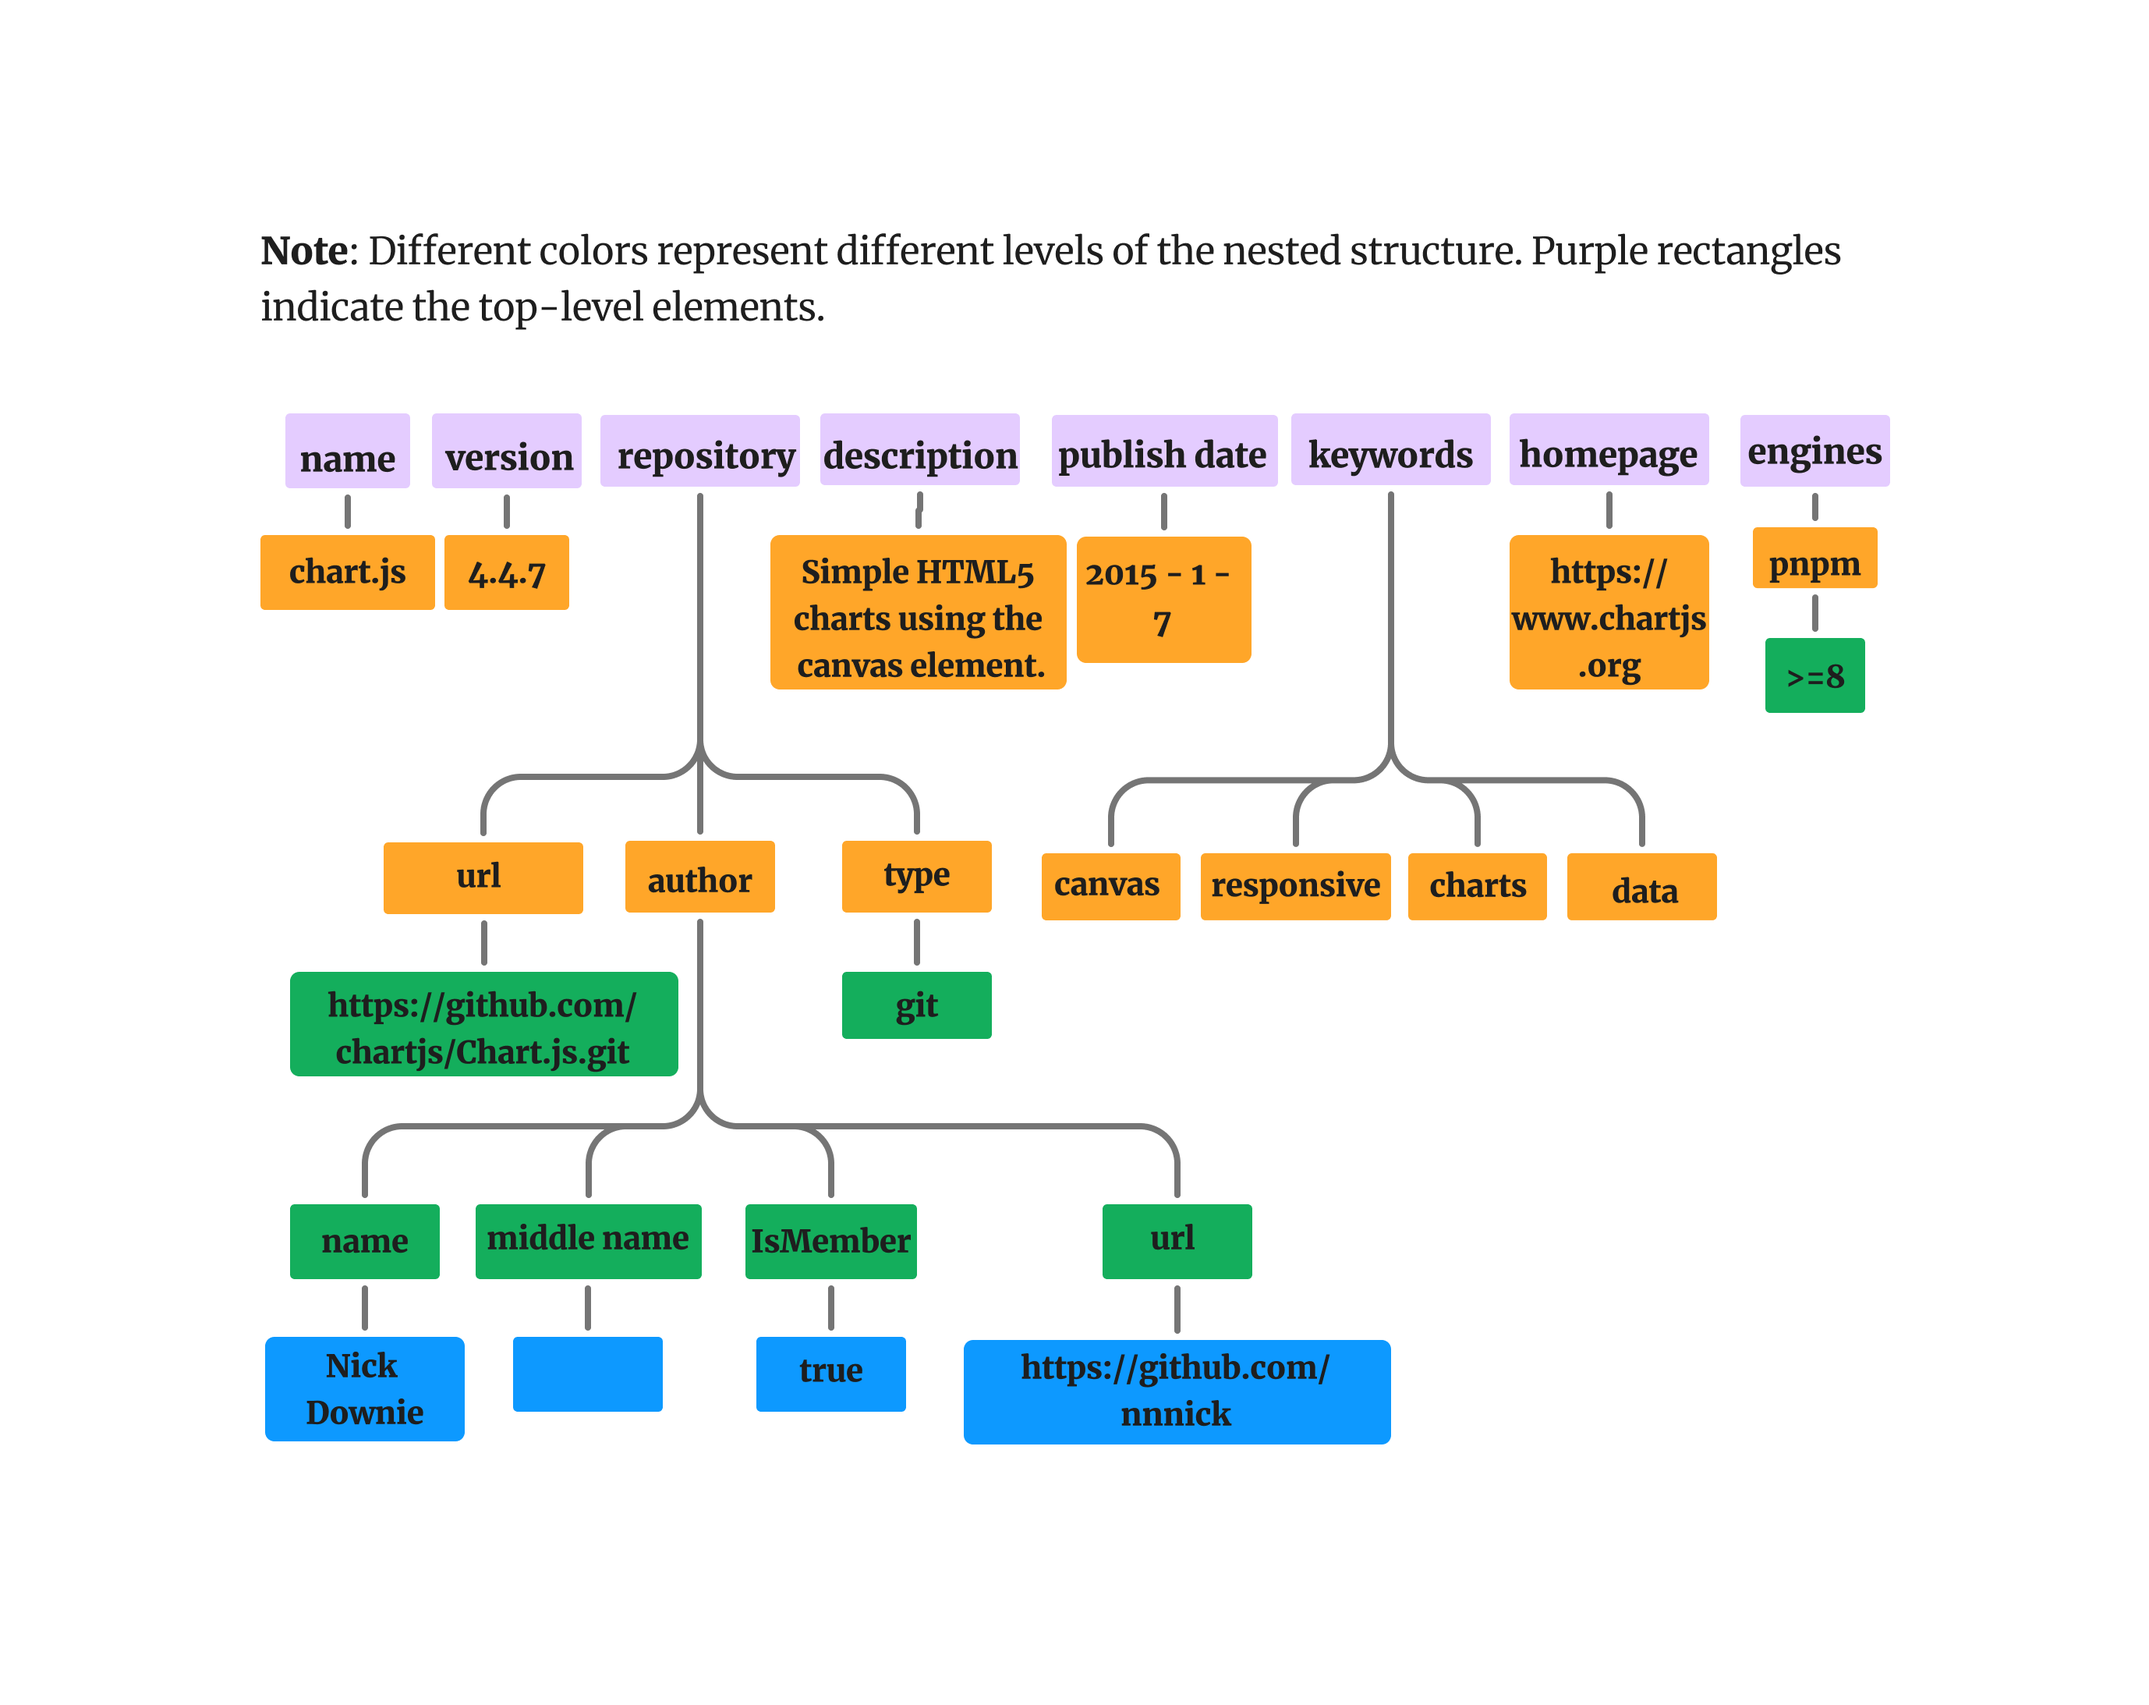
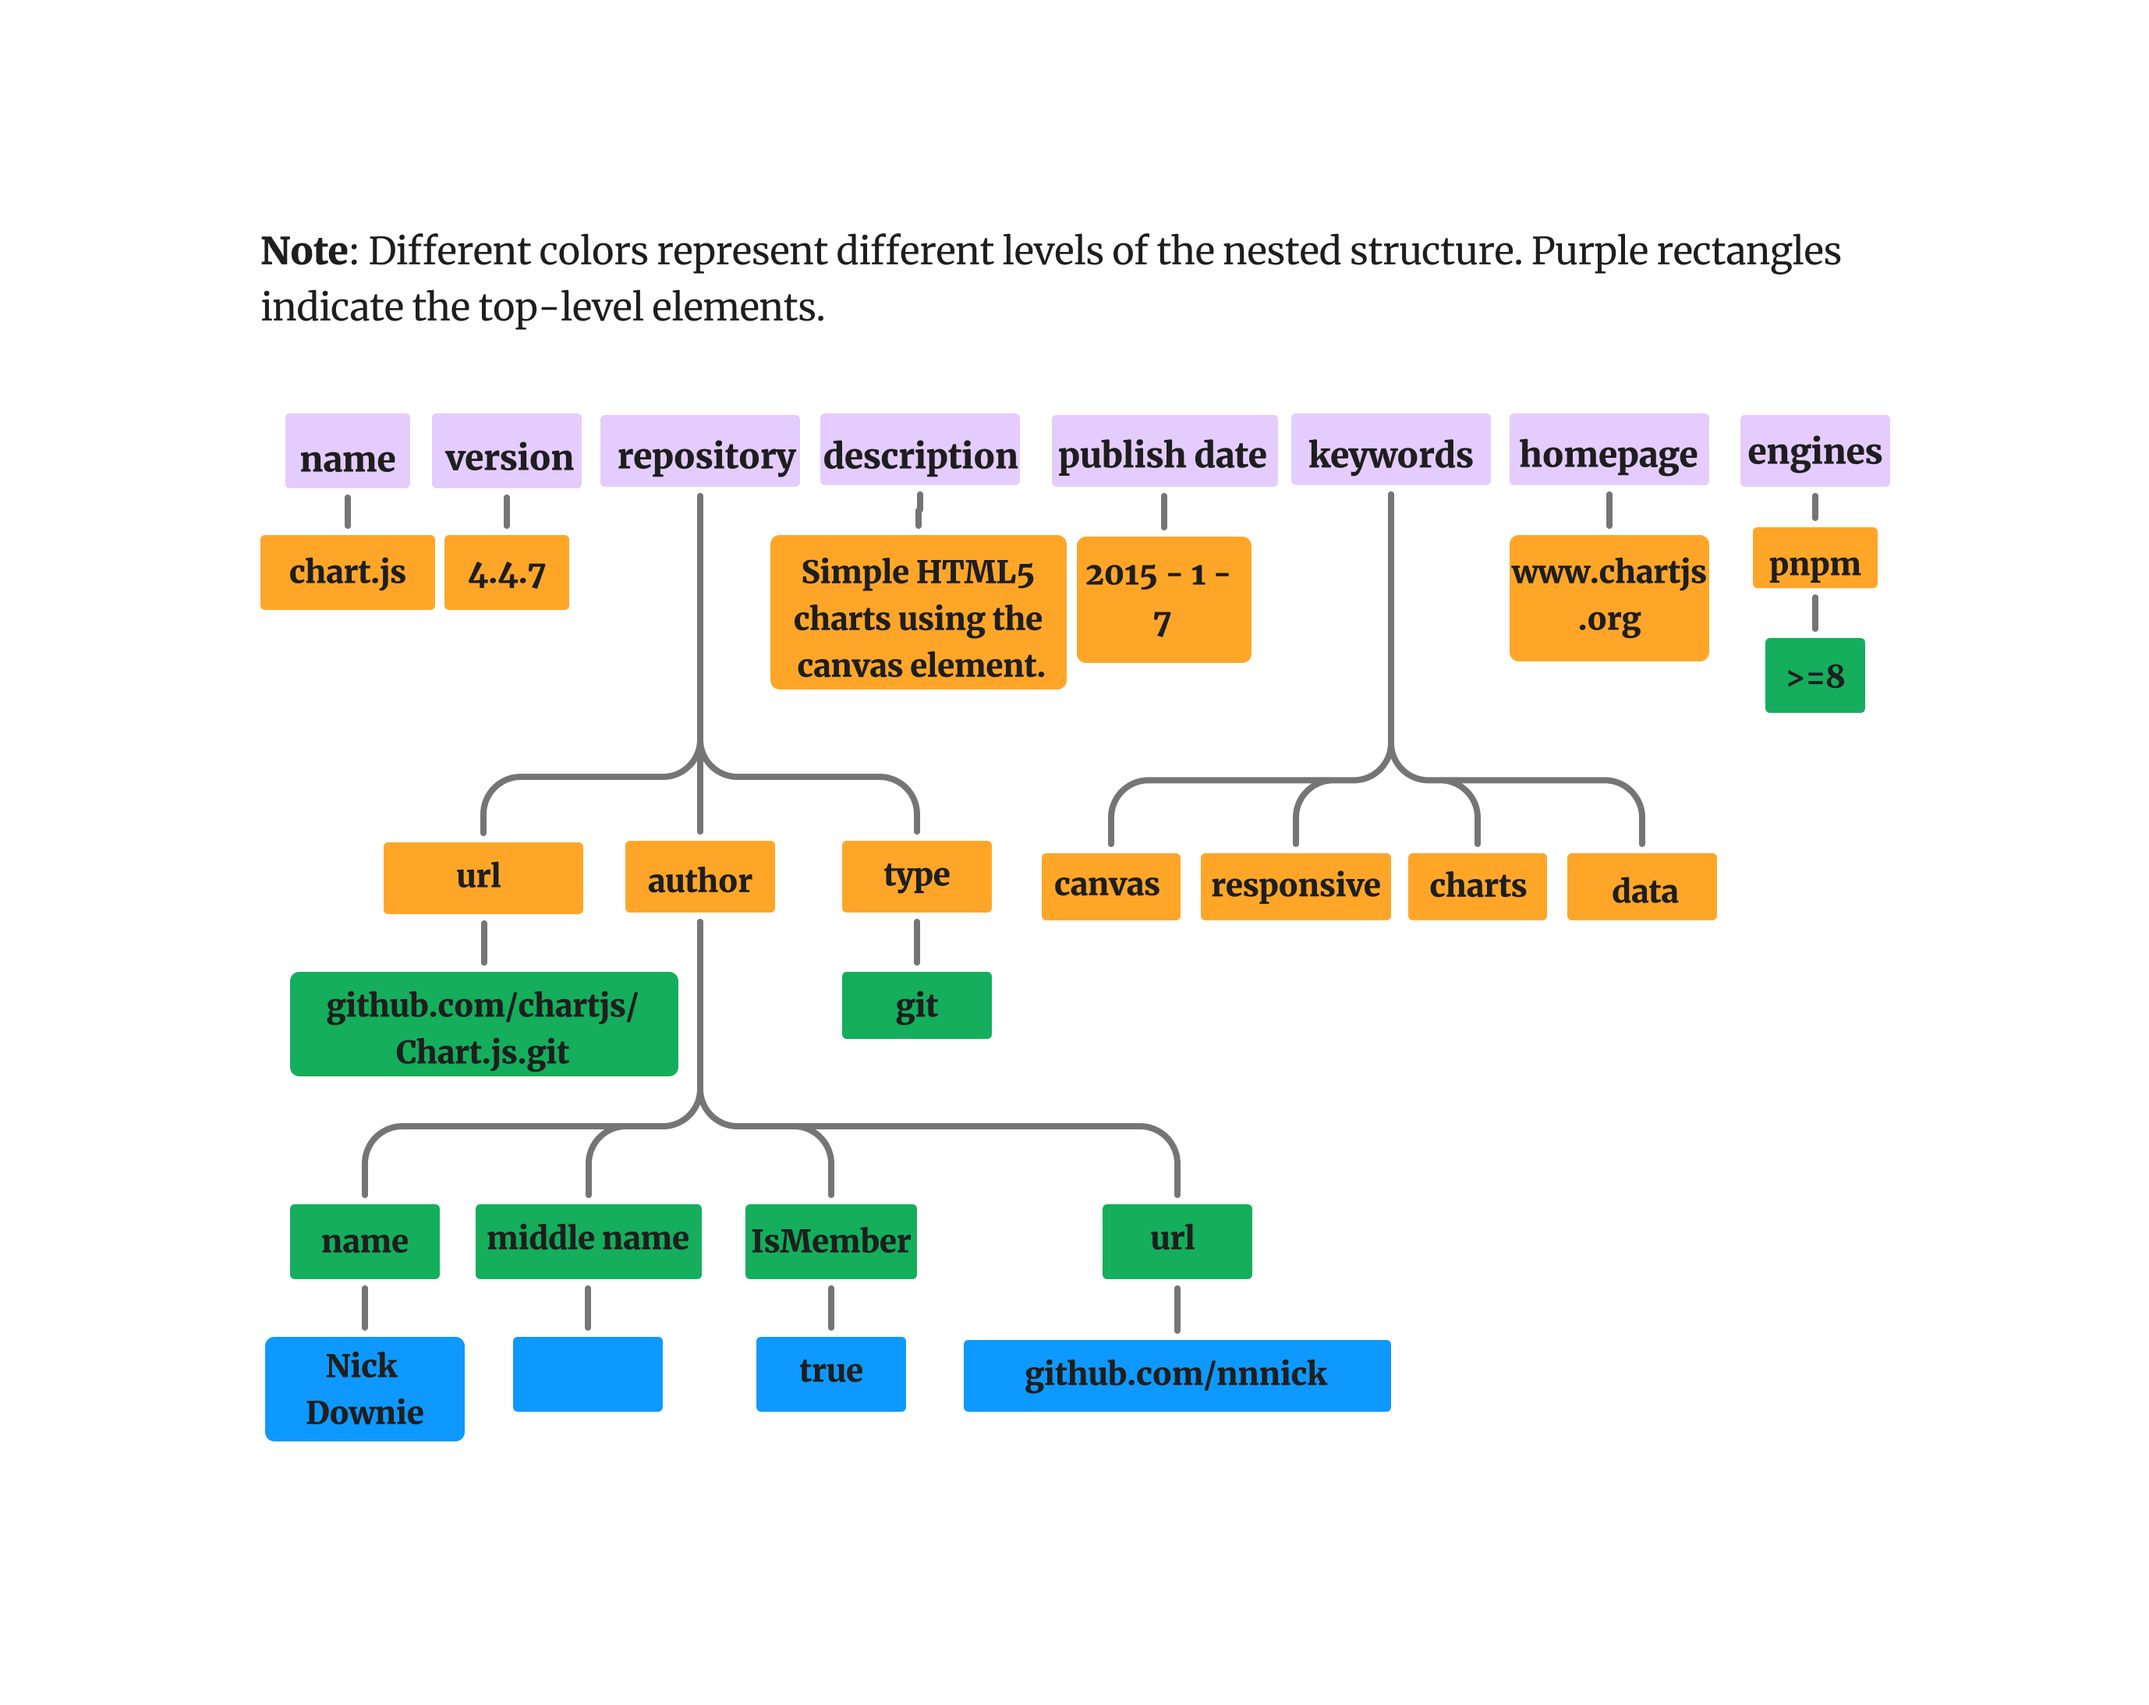
remove urls(http)

Changed region(s): [[0.4369, 0.7777, 0.6553, 0.871], [0.6865, 0.3111, 0.8113, 0.4044], [0.156, 0.5599, 0.312, 0.6221]]

diff --git a/src/public/a-usability-study/assets/startingStrings.tsx b/src/public/a-usability-study/assets/startingStrings.tsx
@@ -1312,10 +1312,10 @@ role = "Secretary"`,
     name: 'd3',
     version: '7.9.0',
     description: 'Data-Driven Documents',
-    homepage: 'https://d3js.org',
+    homepage: 'd3js.org',
     repository: {
       type: 'git',
-      url: 'https://github.com/d3/d3.git',
+      url: 'github.com/d3/d3.git',
     },
     keywords: [
       'd3',
@@ -1327,8 +1327,8 @@ role = "Secretary"`,
     ],
     license: 'ISC',
     author: {
-      name: 'Mike Bostock',
-      url: 'https://bost.ocks.org/mike',
+      firstname: 'Mike',
+      lastname: 'Bostock',
     },
     type: 'module',
     files: [
@@ -1404,10 +1404,10 @@ role = "Secretary"`,
   <name>d3</name>
   <version>7.9.0</version>
   <description>Data-Driven Documents</description>
-  <homepage>https://d3js.org</homepage>
+  <homepage>d3js.org</homepage>
   <repository>
     <type>git</type>
-    <url>https://github.com/d3/d3.git</url>
+    <url>github.com/d3/d3.git</url>
   </repository>
   <keywords>d3</keywords>
   <keywords>dom</keywords>
@@ -1417,8 +1417,8 @@ role = "Secretary"`,
   <keywords>canvas</keywords>
   <license>ISC</license>
   <author>
-    <name>Mike Bostock</name>
-    <url>https://bost.ocks.org/mike</url>
+    <firstname>Mike</firstname>
+    <lastname>Bostock</lastname>
   </author>
   <type>module</type>
   <files>dist/d3.js</files>
@@ -1490,7 +1490,7 @@ role = "Secretary"`,
   readingconfigtoml: `name = "d3"
 version = "7.9.0"
 description = "Data-Driven Documents"
-homepage = "https://d3js.org"
+homepage = "d3js.org"
 keywords = ["d3", "dom", "visualization", "svg", "animation", "canvas"]
 license = "ISC"
 type = "module"
@@ -1502,11 +1502,11 @@ unpkg = "dist/d3.min.js"
 
 [repository]
 type = "git"
-url = "https://github.com/d3/d3.git"
+url = "github.com/d3/d3.git"
 
 [author]
-name = "Mike Bostock"
-url = "https://bost.ocks.org/mike"
+firstname = "Mike"
+lastname = "Bostock"
 
 [exports]
 umd = "./dist/d3.min.js"
@@ -1569,10 +1569,10 @@ node = ">=12"`,
   name: d3
   version: 7.9.0
   description: 'Data-Driven Documents'
-  homepage: https://d3js.org
+  homepage: d3js.org
   repository:
     type: git
-    url: https://github.com/d3/d3.git
+    url: github.com/d3/d3.git
   keywords:
     - d3
     - dom
@@ -1582,8 +1582,8 @@ node = ">=12"`,
     - canvas
   license: ISC
   author:
-    name: Mike Bostock
-    url: https://bost.ocks.org/mike
+    firstname: Mike
+    lastname:  Bostock
   type: module
   files:
     - dist/d3.js
@@ -1650,10 +1650,10 @@ node = ">=12"`,
     name: 'd3',
     version: '7.9.0',
     description: 'Data-Driven Documents',
-    homepage: 'https://d3js.org',
+    homepage: 'd3js.org',
     repository: {
       type: 'git',
-      url: 'https://github.com/d3/d3.git',
+      url: 'github.com/d3/d3.git',
     },
     keywords: [
       'd3',
@@ -1665,8 +1665,8 @@ node = ">=12"`,
     ],
     license: 'ISC',
     author: {
-      name: 'Mike Bostock',
-      url: 'https://bost.ocks.org/mike',
+      firstname: 'Mike',
+      lastname: 'Bostock',
     },
     type: 'module',
     files: [
@@ -1741,10 +1741,10 @@ node = ">=12"`,
     name: 'd3',
     version: '7.9.0',
     description: 'Data-Driven Documents',
-    homepage: 'https://d3js.org',
+    homepage: 'd3js.org',
     repository: {
         type: 'git',
-        url: 'https://github.com/d3/d3.git'
+        url: 'github.com/d3/d3.git'
     },
     keywords: [
         'd3',
@@ -1756,8 +1756,8 @@ node = ">=12"`,
     ],
     license: 'ISC',
     author: {
-        name: 'Mike Bostock',
-        url: 'https://bost.ocks.org/mike'
+        firstname: 'Mike',
+        lastname: 'Bostock'
     },
     type: 'module',
     files: [
@@ -1832,11 +1832,11 @@ node = ">=12"`,
     name: d3
     version: 7.9.0
     description: Data-Driven Documents
-    homepage: https://d3js.org
+    homepage: d3js.org
     repository:
     {
       type: git
-      url: https://github.com/d3/d3.git
+      url: github.com/d3/d3.git
     }
     keywords:
     [
@@ -1850,8 +1850,8 @@ node = ">=12"`,
     license: ISC
     author:
     {
-      name: Mike Bostock
-      url: https://bost.ocks.org/mike
+      firstname: Mike
+      lastname:  Bostock
     }
     type: module
     files:
@@ -1933,12 +1933,12 @@ node = ">=12"`,
     author: 'Dominik Moritz, Kanit Wongsuphasawat, Arvind Satyanarayan, Jeffrey Heer',
     version: '5.23.0',
     collaborators: [
-      'Kanit Wongsuphasawat (http://kanitw.yellowpigz.com)',
-      'Dominik Moritz (https://www.domoritz.de)',
-      'Arvind Satyanarayan (https://arvindsatya.com)',
-      'Jeffrey Heer (https://jheer.org)',
+      'Kanit Wongsuphasawat',
+      'Dominik Moritz',
+      'Arvind Satyanarayan',
+      'Jeffrey Heer',
     ],
-    homepage: 'https://vega.github.io/vega-lite/',
+    homepage: 'ega.github.io/vega-lite/',
     description: 'Vega-Lite is a concise high-level language for interactive visualization.',
     keywords: [
       'vega',
@@ -1980,11 +1980,11 @@ node = ">=12"`,
     },
     repository: {
       type: 'git',
-      url: 'https://github.com/vega/vega-lite.git',
+      url: 'github.com/vega/vega-lite.git',
     },
     license: 'BSD-3-Clause',
     bugs: {
-      url: 'https://github.com/vega/vega-lite/issues',
+      url: 'github.com/vega/vega-lite/issues',
     },
     devDependencies: {
       ajv: '^8.17.1',
@@ -2040,12 +2040,12 @@ node = ">=12"`,
     author: 'Dominik Moritz, Kanit Wongsuphasawat, Arvind Satyanarayan, Jeffrey Heer',
     version: '5.23.0',
     collaborators: [
-      'Kanit Wongsuphasawat (http://kanitw.yellowpigz.com)',
-      'Dominik Moritz (https://www.domoritz.de)',
-      'Arvind Satyanarayan (https://arvindsatya.com)',
-      'Jeffrey Heer (https://jheer.org)',
+      'Kanit Wongsuphasawat',
+      'Dominik Moritz',
+      'Arvind Satyanarayan',
+      'Jeffrey Heer',
     ],
-    homepage: 'https://vega.github.io/vega-lite/',
+    homepage: 'vega.github.io/vega-lite/',
     description: 'Vega-Lite is a concise high-level language for interactive visualization.',
     keywords: [
       'vega',
@@ -2087,11 +2087,11 @@ node = ">=12"`,
     },
     repository: {
       type: 'git',
-      url: 'https://github.com/vega/vega-lite.git',
+      url: 'github.com/vega/vega-lite.git',
     },
     license: 'BSD-3-Clause',
     bugs: {
-      url: 'https://github.com/vega/vega-lite/issues',
+      url: 'github.com/vega/vega-lite/issues',
     },
     devDependencies: {
       ajv: '^8.17.1',
@@ -2147,11 +2147,11 @@ node = ">=12"`,
   <name>vega-lite</name>
   <author>Dominik Moritz, Kanit Wongsuphasawat, Arvind Satyanarayan, Jeffrey Heer</author>
   <version>5.23.0</version>
-  <collaborators>Kanit Wongsuphasawat (http://kanitw.yellowpigz.com)</collaborators>
-  <collaborators>Dominik Moritz (https://www.domoritz.de)</collaborators>
-  <collaborators>Arvind Satyanarayan (https://arvindsatya.com)</collaborators>
-  <collaborators>Jeffrey Heer (https://jheer.org)</collaborators>
-  <homepage>https://vega.github.io/vega-lite/</homepage>
+  <collaborators>Kanit Wongsuphasawat</collaborators>
+  <collaborators>Dominik Moritz</collaborators>
+  <collaborators>Arvind Satyanarayan</collaborators>
+  <collaborators>Jeffrey Heer</collaborators>
+  <homepage>vega.github.io/vega-lite/</homepage>
   <description>Vega-Lite is a concise high-level language for interactive visualization.</description>
   <keywords>vega</keywords>
   <keywords>chart</keywords>
@@ -2189,11 +2189,11 @@ node = ">=12"`,
   </scripts>
   <repository>
     <type>git</type>
-    <url>https://github.com/vega/vega-lite.git</url>
+    <url>github.com/vega/vega-lite.git</url>
   </repository>
   <license>BSD-3-Clause</license>
   <bugs>
-    <url>https://github.com/vega/vega-lite/issues</url>
+    <url>github.com/vega/vega-lite/issues</url>
   </bugs>
   <devDependencies>
     <ajv>^8.17.1</ajv>
@@ -2247,8 +2247,8 @@ node = ">=12"`,
   modifyingconfigtoml: `name = "vega-lite"
 author = "Dominik Moritz, Kanit Wongsuphasawat, Arvind Satyanarayan, Jeffrey Heer"
 version = "5.23.0"
-collaborators = ["Kanit Wongsuphasawat (http://kanitw.yellowpigz.com)", "Dominik Moritz (https://www.domoritz.de)", "Arvind Satyanarayan (https://arvindsatya.com)", "Jeffrey Heer (https://jheer.org)"]
-homepage = "https://vega.github.io/vega-lite/"
+collaborators = ["Kanit Wongsuphasawat", "Dominik Moritz", "Arvind Satyanarayan", "Jeffrey Heer"]
+homepage = "vega.github.io/vega-lite/"
 description = "Vega-Lite is a concise high-level language for interactive visualization."
 keywords = ["vega", "chart", "visualization"]
 main = "build/vega-lite.js"
@@ -2283,10 +2283,10 @@ release = "release-it"
 
 [repository]
 type = "git"
-url = "https://github.com/vega/vega-lite.git"
+url = "github.com/vega/vega-lite.git"
 
 [bugs]
-url = "https://github.com/vega/vega-lite/issues"
+url = "github.com/vega/vega-lite/issues"
 
 [devDependencies]
 ajv = "^8.17.1"
@@ -2338,11 +2338,11 @@ node = ">=18"`,
 author: Dominik Moritz, Kanit Wongsuphasawat, Arvind Satyanarayan, Jeffrey Heer
 version: 5.23.0
 collaborators:
-  - Kanit Wongsuphasawat (http://kanitw.yellowpigz.com)
-  - Dominik Moritz (https://www.domoritz.de)
-  - Arvind Satyanarayan (https://arvindsatya.com)
-  - Jeffrey Heer (https://jheer.org)
-homepage: https://vega.github.io/vega-lite/
+  - Kanit Wongsuphasawat
+  - Dominik Moritz
+  - Arvind Satyanarayan
+  - Jeffrey Heer
+homepage: vega.github.io/vega-lite/
 description: Vega-Lite is a concise high-level language for interactive visualization.
 keywords:
   - vega
@@ -2384,10 +2384,10 @@ scripts:
   release: release-it
 repository:
   type: git
-  url: https://github.com/vega/vega-lite.git
+  url: github.com/vega/vega-lite.git
 license: BSD-3-Clause
 bugs:
-  url: https://github.com/vega/vega-lite/issues
+  url: github.com/vega/vega-lite/issues
 devDependencies:
   ajv: ^8.17.1
   ajv-formats: ^3.0.1
@@ -2437,12 +2437,12 @@ packageManager: yarn@1.22.22`,
     author: 'Dominik Moritz, Kanit Wongsuphasawat, Arvind Satyanarayan, Jeffrey Heer',
     version: '5.23.0',
     collaborators: [
-        'Kanit Wongsuphasawat (http://kanitw.yellowpigz.com)',
-        'Dominik Moritz (https://www.domoritz.de)',
-        'Arvind Satyanarayan (https://arvindsatya.com)',
-        'Jeffrey Heer (https://jheer.org)'
+        'Kanit Wongsuphasawat',
+        'Dominik Moritz',
+        'Arvind Satyanarayan',
+        'Jeffrey Heer'
     ],
-    homepage: 'https://vega.github.io/vega-lite/',
+    homepage: 'vega.github.io/vega-lite/',
     description: 'Vega-Lite is a concise high-level language for interactive visualization.',
     keywords: [
         'vega',
@@ -2484,11 +2484,11 @@ packageManager: yarn@1.22.22`,
     },
     repository: {
         type: 'git',
-        url: 'https://github.com/vega/vega-lite.git'
+        url: 'github.com/vega/vega-lite.git'
     },
     license: 'BSD-3-Clause',
     bugs: {
-        url: 'https://github.com/vega/vega-lite/issues'
+        url: 'github.com/vega/vega-lite/issues'
     },
     devDependencies: {
         ajv: '^8.17.1',
@@ -2545,12 +2545,12 @@ packageManager: yarn@1.22.22`,
   version: 5.23.0
   collaborators:
   [
-    Kanit Wongsuphasawat (http://kanitw.yellowpigz.com)
-    Dominik Moritz (https://www.domoritz.de)
-    Arvind Satyanarayan (https://arvindsatya.com)
-    Jeffrey Heer (https://jheer.org)
+    Kanit Wongsuphasawat
+    Dominik Moritz
+    Arvind Satyanarayan
+    Jeffrey Heer
   ]
-  homepage: https://vega.github.io/vega-lite/
+  homepage: vega.github.io/vega-lite/
   description: Vega-Lite is a concise high-level language for interactive visualization.
   keywords:
   [
@@ -2597,12 +2597,12 @@ packageManager: yarn@1.22.22`,
   repository:
   {
     type: git
-    url: https://github.com/vega/vega-lite.git
+    url: github.com/vega/vega-lite.git
   }
   license: BSD-3-Clause
   bugs:
   {
-    url: https://github.com/vega/vega-lite/issues
+    url: github.com/vega/vega-lite/issues
   }
   devDependencies:
   {
